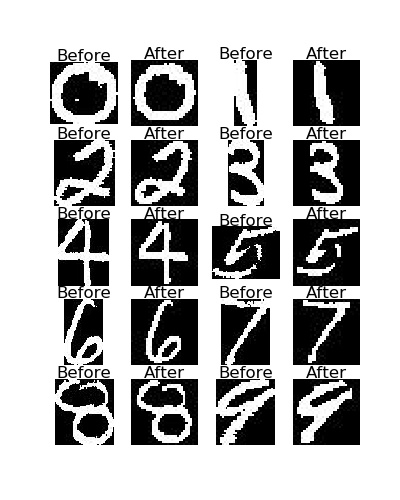
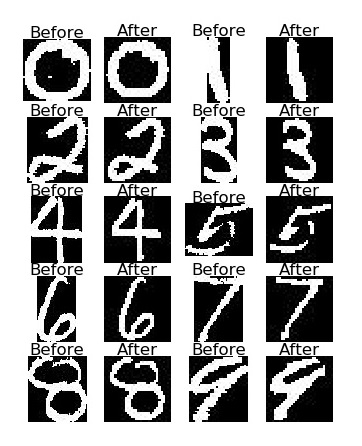
Add multiples files for python script livetest collage and matlab final classifier tests for scenario2

diff --git a/scenario2_final_test.m b/scenario2_final_test.m
@@ -1,0 +1,76 @@
+final_models = {knnc([], 1), scalem([], 'variance') * pcam([], 0.95) * knnc([], 1), ...
+    scalem([], 'variance') * pcam([], 0.9) * knnc([], 1), ...
+    scalem([], 'variance') * pcam([], 0.8) * knnc([], 1), ...
+    scalem([], 'variance') * pcam([], 0.7) * knnc([], 1), ...
+    scalem([], 'variance') * pcam([], 0.6) * knnc([], 1)};
+
+resultsHeader = ["samples_per_class", "1NN", "95PCA_1NN", "90PCA_1NN", ...
+    "80PCA_1NN", "70PCA_1NN", "60PCA_1NN"]; 
+cell2csv('scenario2_results.csv', resultsHeader);
+for samplesPerClass=4:10
+    nistDatafile = prnist([0:9], [1:samplesPerClass]);
+    hogDataset = my_rep(nistDatafile);
+    crt_result = [samplesPerClass];
+    for modelIndex = 1: size(final_models, 2)
+        untrainedModel = final_models(modelIndex);
+        untrainedModel = untrainedModel{1};
+        trainedModel = hogDataset * untrainedModel;
+        
+        crt_err = nist_eval('my_rep', trainedModel, 100);
+        crt_result = [crt_result, crt_err];
+    end
+    cell2csv('scenario2_results.csv', string(crt_result));
+end
+
+        
+        
+
+
+
+
+
+
+%{
+[cleanedImages, digitLabels] = preprocess(samplesPerClass, imageSize);
+
+hogFeats = [];
+for imageIndex = 1:size(cleanedImages, 1)
+    crtImg = reshape(cleanedImages(imageIndex, :), [imageSize, imageSize]);
+    [crtFeats, crtHogVis] = extractHOGFeatures(crtImg, 'CellSize',[6 6]);
+    hogFeats = [hogFeats; crtFeats];
+end
+
+hogDataset = prdataset(double(hogFeats), digitLabels);
+
+w = scalem([], 'variance') * pcam([], 0.95) * parzenc
+wn = hogDataset * w
+
+[a, b] = prcrossval(hogDataset, w, 5)
+
+e = nist_eval('my_rep', w, 100)
+
+
+---------
+samplesPerClass = 100;
+imageSize = 32;
+
+nist_datafile = prnist([0:9], [1:samplesPerClass]);
+hogDataset = my_rep(nist_datafile);
+hogDataset = hogDataset(randperm(size(hogDataset, 1)), :);
+
+w = scalem([], 'variance') * pcam([], 0.9) * parzenc;
+wn = hogDataset * w;
+
+nist_eval('my_rep', wn, 10)
+-----------
+%}
+
+%{
+    N = size(hogDataset,1)  % total number of rows 
+tf = false(N,1)    % create logical index vector
+tf(1:round(0.9*N)) = true     
+tf = tf(randperm(N))   % randomise order
+dataTraining = hogDataset(tf,:) 
+dataTesting = hogDataset(~tf,:)
+Undefined function or variable 'hogDatase'.
+ %}

diff --git a/preprocess.m b/preprocess.m
@@ -11,9 +11,11 @@ function [cleanedImages, digitLabels] = preprocess(samplesPerClass, imageSize)
             i = classIndex * samplesPerClass + imageIndex; 
             im = data2im(original_digits(i));
             
+            %{
             if imageIndex == randomIndex
                 imwrite(im, sprintf('output\\%s_%d.jpg',"orig",classIndex));
             end
+            %}
         
             se = strel('disk',1);
             im = imclose(im, se);
@@ -24,9 +26,11 @@ function [cleanedImages, digitLabels] = preprocess(samplesPerClass, imageSize)
             im = im_resize(im, [imageSize - 2,imageSize - 2]);
             im = im_box(im, 1, 0);
             
+            %{
             if imageIndex == randomIndex
                 imwrite(im, sprintf('output\\%s_%d.jpg',"proc",classIndex));
             end
+            %}
                 
             cleanedImages = [cleanedImages; reshape(im, 1, [])]; 
             digitLabels = [digitLabels; num2str(classIndex)]; 

diff --git a/my_rep.m b/my_rep.m
@@ -1,0 +1,39 @@
+function hogDataset = my_rep(nistDatafile)
+
+    samplesPerClass = size(nistDatafile, 1) / 10;
+    hogFeats = [];
+    digitLabels = [];
+    
+    for classIndex = 0:9
+        for imageIndex = 1:samplesPerClass
+            i = classIndex * samplesPerClass + imageIndex;
+            im = data2im(nistDatafile(i));
+            
+            se = strel('disk',1);
+            im = imclose(im, se);
+            im = imerode(im,se);
+            im = imdilate(im,se);
+
+            im = im_box(im, 0, 1);
+            im = im_resize(im, [32 - 2,32 - 2]);
+            im = im_box(im, 1, 0);
+            
+            [crtFeats, ~] = extractHOGFeatures(im, 'CellSize',[6 6]);
+            hogFeats = [hogFeats; crtFeats];
+            digitLabels = [digitLabels; strcat('digit_', num2str(classIndex))];
+        end
+        disp(classIndex);
+    end
+    
+    hogDataset = prdataset(double(hogFeats), digitLabels);
+            
+end
+
+
+
+
+
+
+
+
+

diff --git a/my_preprocess.m b/my_preprocess.m
@@ -1,0 +1,25 @@
+function [cleanedImages, digitLabels] = my_preprocess(nistDatafile, imageSize)
+
+    samplesPerClass = size(nistDatafile, 1) / 10;  
+
+    cleanedImages = [];
+    digitLabels = {{}};
+    
+    for classIndex = 0:9
+        for imageIndex = 1:samplesPerClass
+            im = data2im(nistDatafile(classIndex * samplesPerClass + imageIndex));
+            se = strel('disk',1);
+            im = imclose(im, se);
+            im = imerode(im,se);
+            im = imdilate(im,se);
+
+            im = im_box(im, 0, 1);
+            im = im_resize(im, [imageSize - 2,imageSize - 2]);
+            im = im_box(im, 1, 0);
+            
+            cleanedImages = [cleanedImages; reshape(im, 1, [])]; 
+            digitLabels = [digitLabels; num2str(classIndex)]; 
+        end
+        disp(classIndex);
+    end
+end

diff --git a/livetest_data/make_collage.py b/livetest_data/make_collage.py
@@ -15,13 +15,15 @@ if __name__ == "__main__":
 
 	rows, columns = 5, 4
 	for i in range(0, columns*rows):
-		crt_filename = ("orig_" if i % 2 == 0 else "proc_") + str(i // 2) + ".jpg"
+		crt_filename = ("digit" if i % 2 == 0 else "pdigit") + str(i // 2) + ".jpg"
 		crt_filename = os.path.join("selected", crt_filename)
-		img = cv2.imread(crt_filename, cv2.IMREAD_GRAYSCALE)
+		print(crt_filename)
+		# cv2.IMREAD_GRAYSCALE
+		img = cv2.imread(crt_filename)
 		fig.add_subplot(rows, columns, i + 1)
 		plt.axis('off')
 		plt.title("Before" if i % 2 == 0 else "After", fontsize=12)
 		plt.imshow(img, cmap = 'gray')
 	
-	plt.savefig("before_after_preproc.jpg")
+	plt.savefig("livetest_before_after_preproc.jpg")
 	plt.close()
